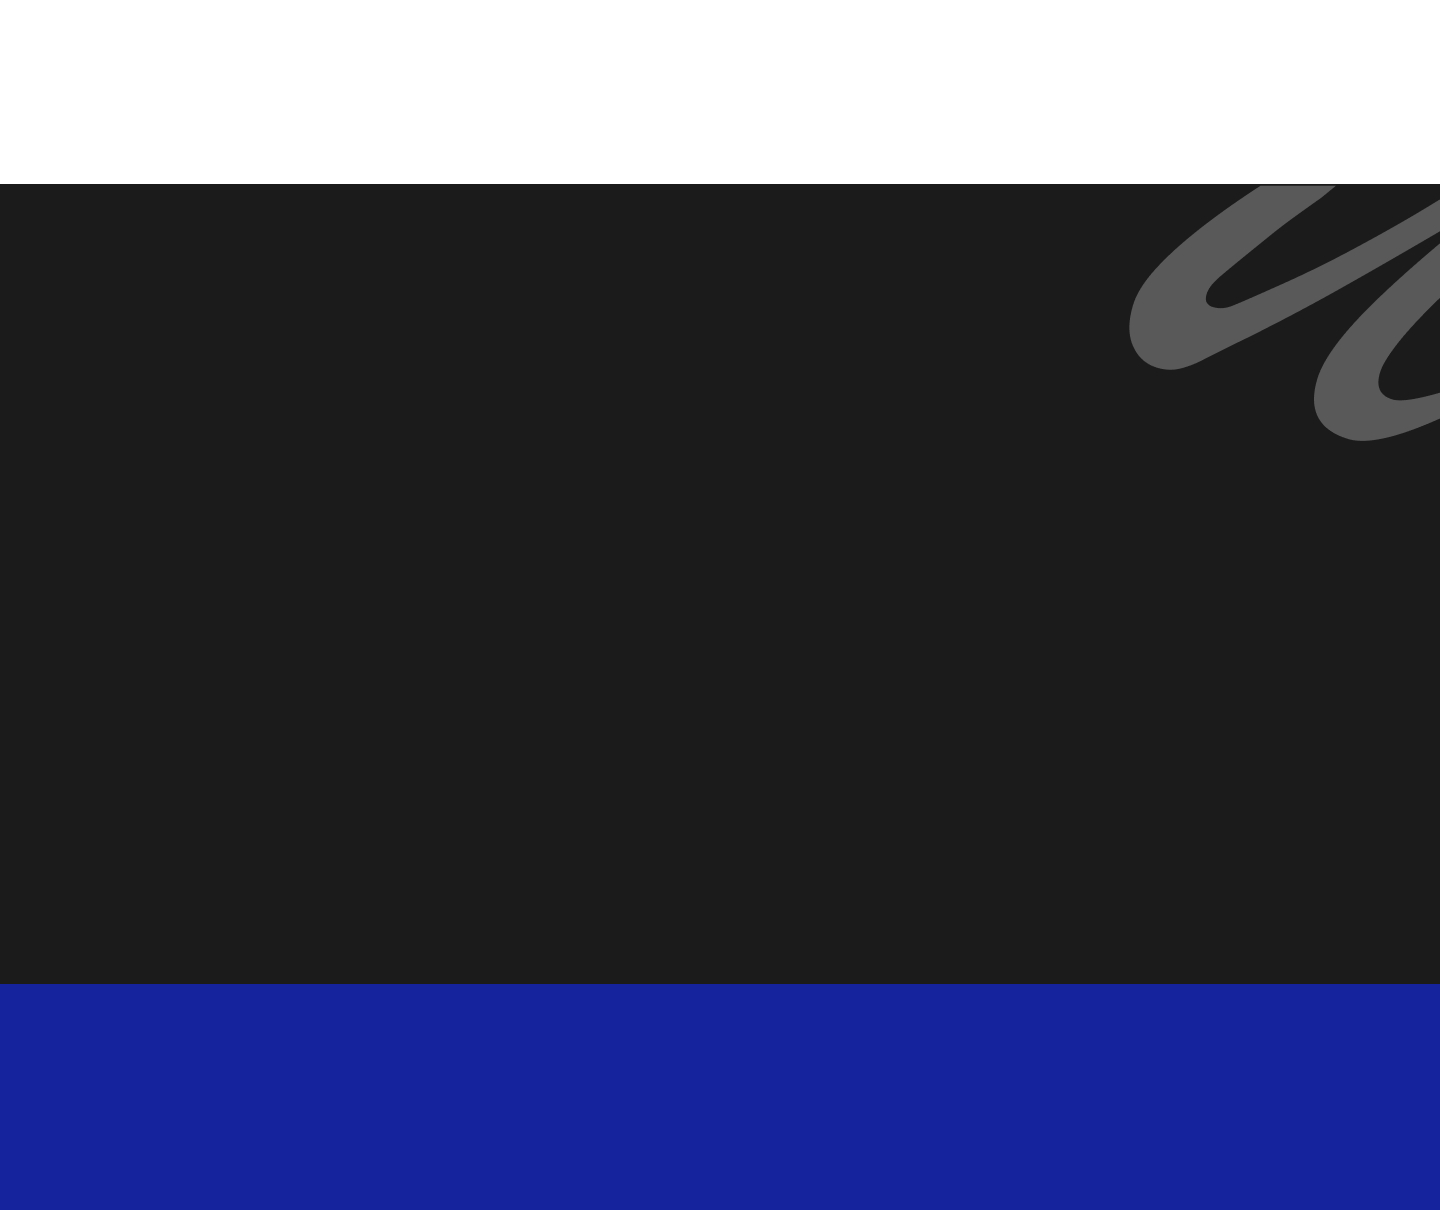
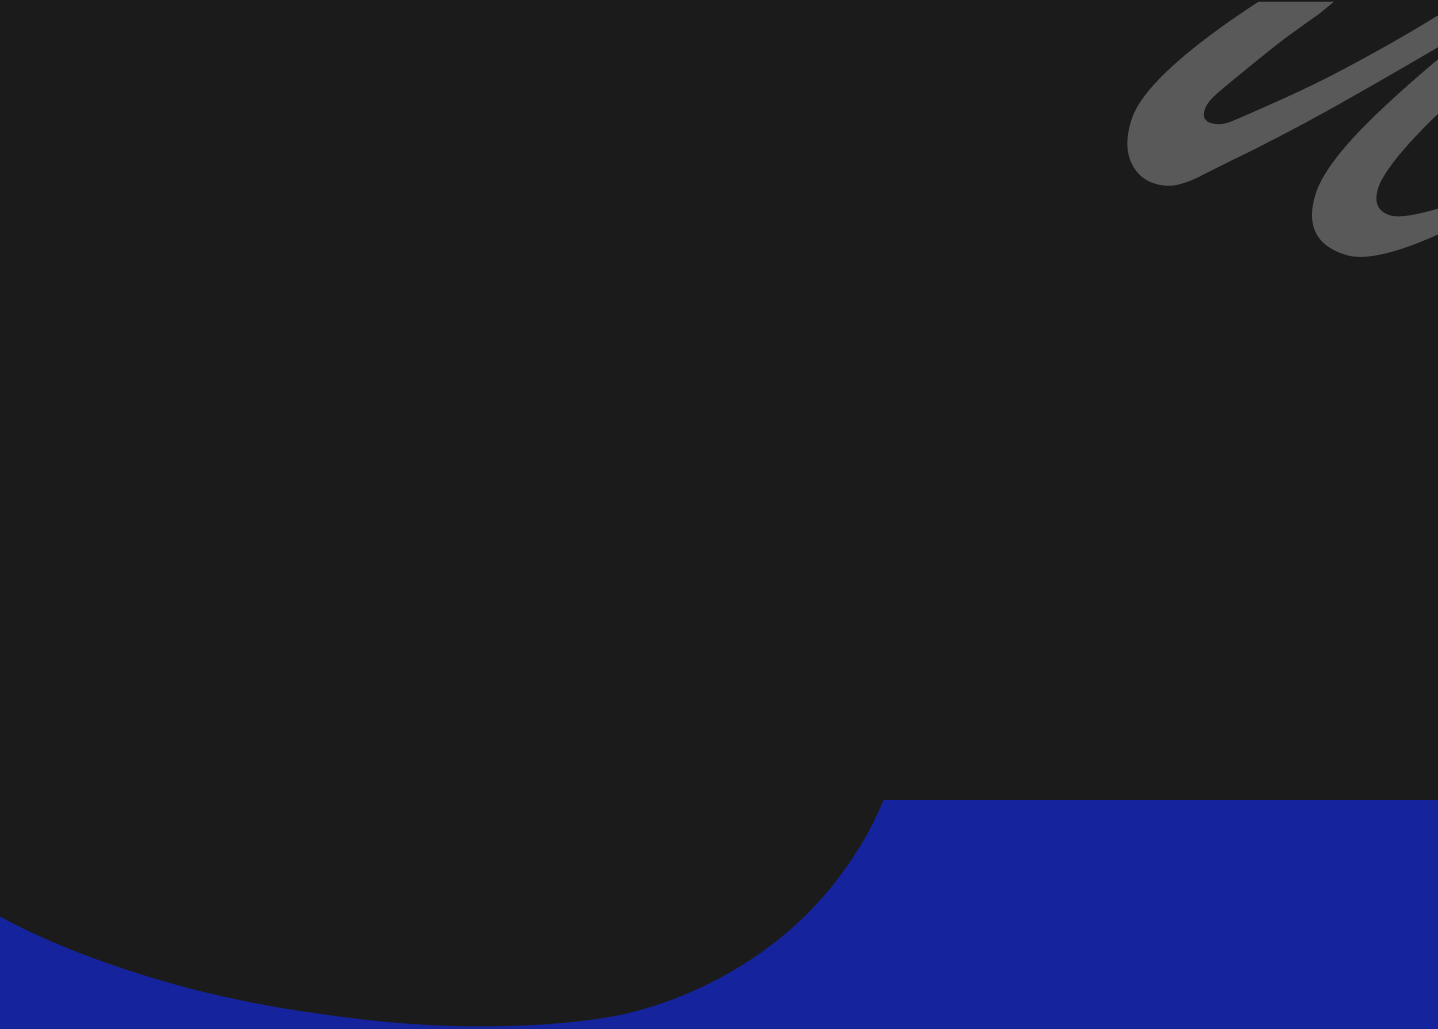
change header and add about section styles

Changed region(s): [[0.0, 0.0, 1.0, 0.3732], [0.0, 0.7775, 1.0, 1.0]]

diff --git a/app/assets/stylesheets/promo.scss b/app/assets/stylesheets/promo.scss
@@ -1,6 +1,8 @@
 // Place all the styles related to the promo controller here.
 // They will automatically be included in application.css.
 // You can use Sass (SCSS) here: https://sass-lang.com/
+
+//styles for first screen
 .main {
   background-image: url(image-path('main-bc.png'));
   background-size: cover;
@@ -32,5 +34,38 @@
   padding-top: 1vw;
   img {
     width: 100%;
+  }
+}
+
+//styles for short description part
+.desc {
+  background-image: url(image-path('main-about-bc.jpg'));
+  background-size: cover;
+  background-position: center;
+  background-repeat: no-repeat;
+}
+
+.desc__block {
+  padding: 12% 10%;
+  display: flex;
+  .desc__block__paragraph {
+    padding-top: 8%;
+    font-weight: 500;
+    font-size: 32px;
+    line-height: 125%;
+    color: #FFFFFF;
+  }
+  .desc__block__pic {
+    width: 24vw;
+    margin-left: 8%;
+    margin-right: 12%;
+  }
+}
+
+//styles for functions section
+.function {
+  background-color: #15239D;
+  .function__block-compos  {
+    width: 60vw;
   }
 }

diff --git a/app/assets/stylesheets/scaffolds.scss b/app/assets/stylesheets/scaffolds.scss
@@ -3,6 +3,7 @@
 @import url('https://fonts.googleapis.com/css2?family=Inter:wght@400;600&display=swap');
 
 
+
 body {
   position: relative;
   width: 100%;
@@ -70,7 +71,6 @@ label {
 
 //Header render styles
 .header {
-  width: 100%;
   padding: 36px;
   display: flex;
    ul {
